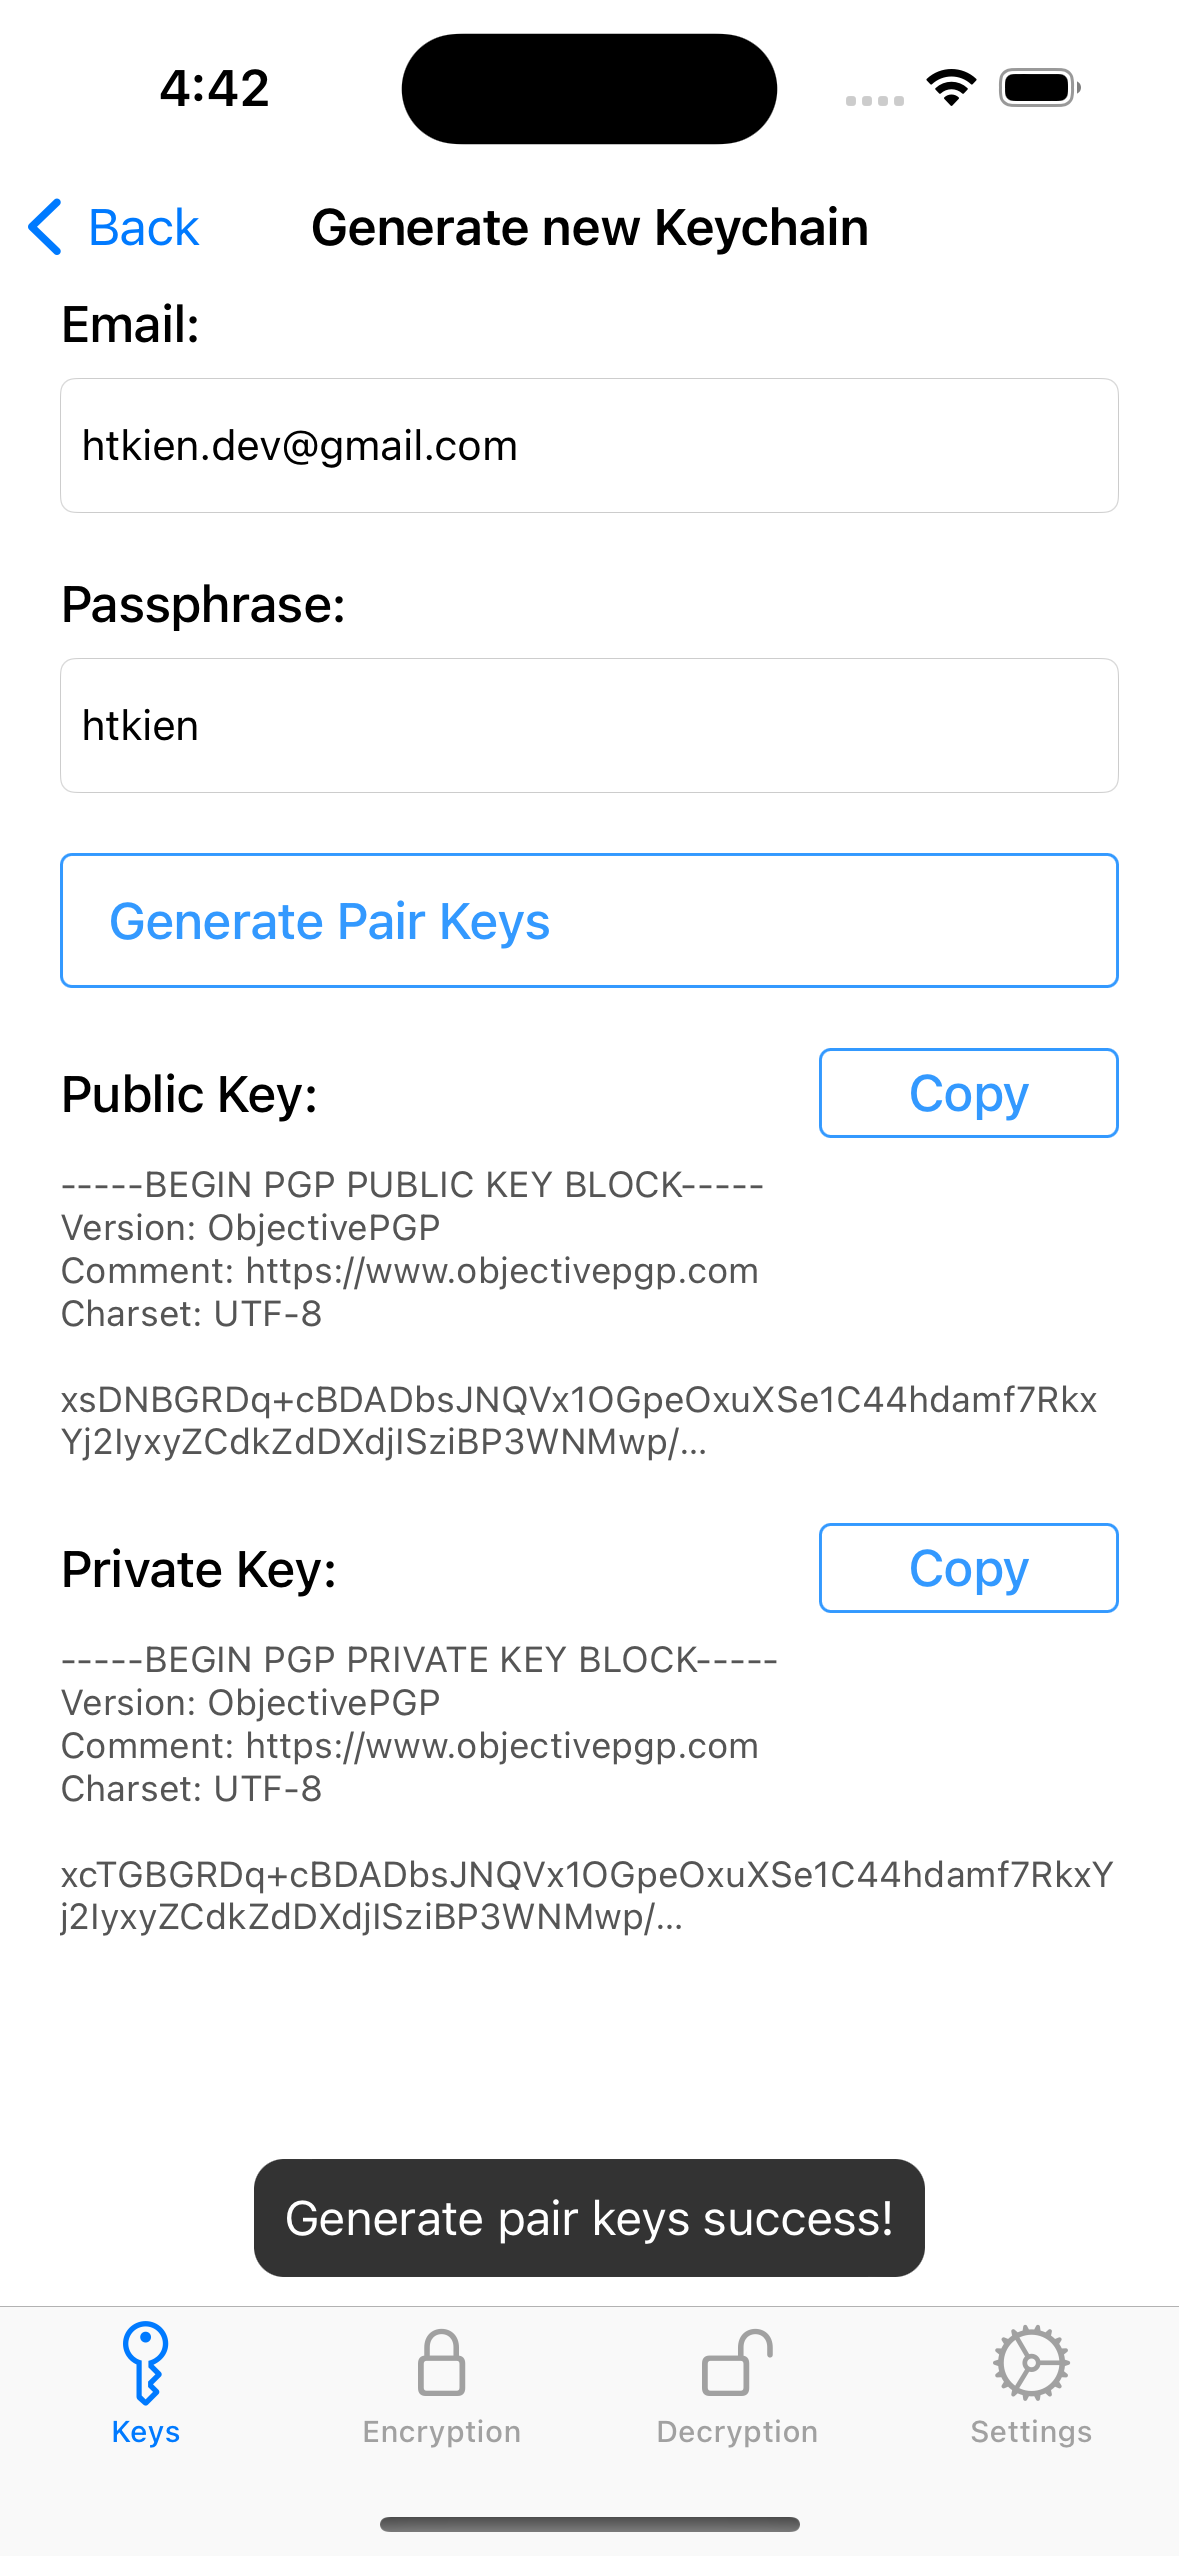
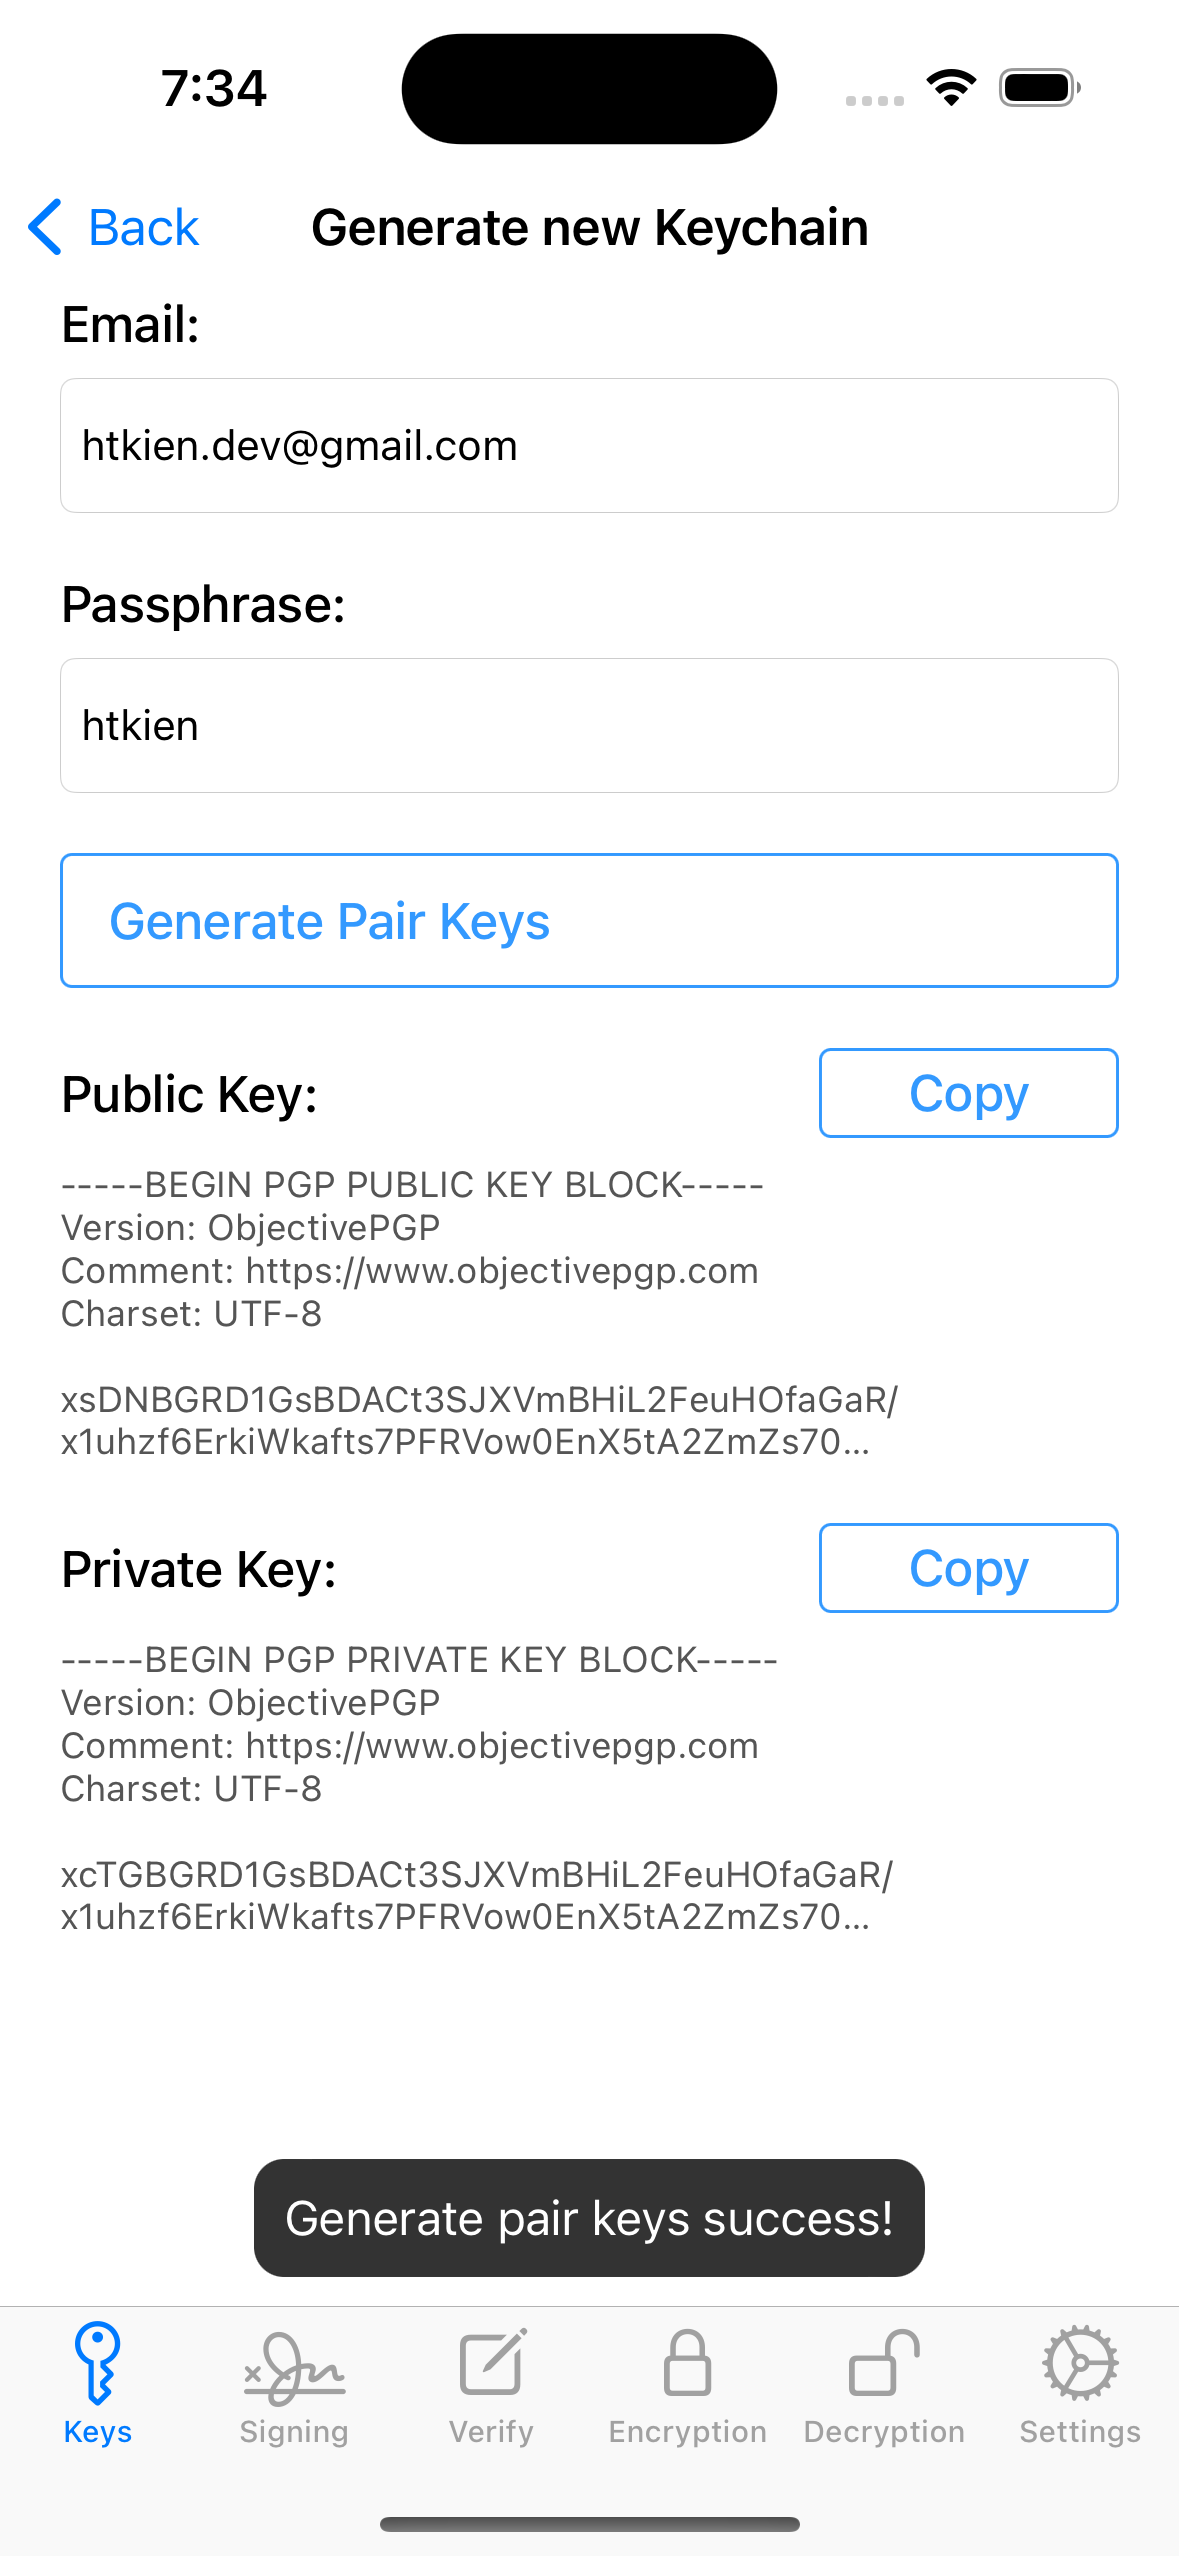
Update small things

diff --git a/PGP-example/Classes/Services/PGP/PGPService.swift b/PGP-example/Classes/Services/PGP/PGPService.swift
@@ -10,14 +10,6 @@ import ObjectivePGP
 
 typealias Keychain = Key
 
-enum KeychainType {
-    case publicKey
-    case privateKey
-    case both
-}
-
-protocol IPGPService {} // update later
-
 final class PGPService: IPGPService {
     
     func exportKeys(of type: KeychainType) -> [Keychain] {
@@ -37,6 +29,9 @@ final class PGPService: IPGPService {
         return key
     }
     
+    /**
+     Encrypt data using given keys.
+     */
     func encrypt(message: String,
                  receiverPublicKey: Keychain,
                  signerPrivateKey: Keychain?,
@@ -75,6 +70,9 @@ final class PGPService: IPGPService {
 //        return encryptedString
 //    }
     
+    /**
+     Decrypt PGP encrypted data.
+     */
     func decrypt(encryptedMessage: String,
                  receiverPrivateKey: Keychain,
                  signerPublicKey: Keychain?,
@@ -88,16 +86,7 @@ final class PGPService: IPGPService {
             inputKeys.append(signerPublicKey)
         }
         
-        guard let range = encryptedMessage.range(of: #"-----BEGIN PGP MESSAGE-----(.|\s)*-----END PGP MESSAGE-----"#,
-                                        options: .regularExpression) else {
-            throw PGPError(_nsError: NSError(domain: "Invalid encrypted message", code: -1))
-        }
-        
-        let message = String(encryptedMessage[range])
-        guard let messageData = message.data(using: .ascii) else {
-            throw PGPError(_nsError: NSError(domain: "Invalid encrypted message", code: -1))
-        }
-        
+        let messageData = try Armor.readArmored(encryptedMessage)
         let decrypted = try ObjectivePGP.decrypt(messageData,
                                                  andVerifySignature: andVerifySignature,
                                                  using: inputKeys,
@@ -131,7 +120,14 @@ final class PGPService: IPGPService {
 //        return decryptedMessage
 //    }
     
-    func sign(message: String, detached: Bool, key: Keychain, passphrase: String) throws -> String {
+    /**
+     Sign data using a given key. Use passphrase to unlock the key if needed.
+     If `detached` is true, output with the signature only. Otherwise, return signed data in PGP format.
+     */
+    func sign(message: String,
+              detached: Bool,
+              key: Keychain,
+              passphrase: String) throws -> String {
         guard let messageData = message.data(using: .utf8) else {
             throw PGPError(_nsError: NSError(domain: "Invalid raw input message", code: -1))
         }
@@ -144,11 +140,17 @@ final class PGPService: IPGPService {
         return signedString
     }
     
+    /**
+     Verify signed data using given keys.
+     */
     func verify(_ signedMessage: String, key: Keychain) throws {
         let messageData = try Armor.readArmored(signedMessage)
         try ObjectivePGP.verify(messageData, withSignature: nil, using: [key])
     }
     
+    /**
+     Verify if signature was signed with one of the given keys.
+     */
     func verifySignature(_ signature: String, key: Keychain) throws {
         let signatureData = try Armor.readArmored(signature)
         try ObjectivePGP.verifySignature(signatureData, using: [key])
@@ -159,13 +161,14 @@ final class PGPService: IPGPService {
         try keyring.export().write(to: fileUrl, options: .completeFileProtection)
     }
     
+    /**
+     Read binary or armored (ASCII) PGP keys from the input.
+     */
     func importKey(_ keyString: String) throws -> [Keychain] {
-        guard let asciiKeyData = keyString.data(using: .ascii) else {
-            throw PGPError(_nsError: NSError(domain: "Invalid raw input text", code: -1))
-        }
-
+        let asciiKeyData = try Armor.readArmored(keyString)
         var readKeys: [Keychain] = []
         readKeys = try ObjectivePGP.readKeys(from: asciiKeyData)
+        
         for key in readKeys {
             try keyIsSupported(key: key)
         }
@@ -174,6 +177,9 @@ final class PGPService: IPGPService {
         return readKeys
     }
     
+    /**
+     Read binary or armored (ASCII) PGP keys from the input.
+     */
     @discardableResult
     func importKey(_ fileUrl: URL) throws -> [Keychain] {
         var readKeys: [Keychain] = []
@@ -186,6 +192,9 @@ final class PGPService: IPGPService {
         return readKeys
     }
     
+    /**
+     Read binary or armored (ASCII) PGP keys from the input.
+     */
     @discardableResult
     func importKeys(fileUrls: [URL]) throws -> [Keychain] {
         var keys: [Keychain] = []

diff --git a/PGP-example/Classes/Services/PGP/IPGPService.swift b/PGP-example/Classes/Services/PGP/IPGPService.swift
@@ -1,0 +1,34 @@
+//
+//  IPGPService.swift
+//  PGP-example
+//
+//  Created by Bradley Hoang on 22/04/2023.
+//
+
+import Foundation
+
+protocol IPGPService {
+    func exportKeys(of type: KeychainType) -> [Keychain]
+    
+    func generateNewPairKeys(email: String, passphrase: String) -> Keychain
+    
+    func encrypt(message: String, receiverPublicKey: Keychain, signerPrivateKey: Keychain?, passphrase: String) throws -> String
+    
+    func decrypt(encryptedMessage: String, receiverPrivateKey: Keychain, signerPublicKey: Keychain?, passphrase: String) throws -> String
+    
+    func sign(message: String, detached: Bool, key: Keychain, passphrase: String) throws -> String
+    
+    func verify(_ signedMessage: String, key: Keychain) throws
+    
+    func verifySignature(_ signature: String, key: Keychain) throws
+    
+    func exportKeychain(with fileUrl: URL) throws
+    
+    func importKey(_ keyString: String) throws -> [Keychain]
+    
+    @discardableResult
+    func importKey(_ fileUrl: URL) throws -> [Keychain]
+    
+    @discardableResult
+    func importKeys(fileUrls: [URL]) throws -> [Keychain]
+}

diff --git a/PGP-example/Classes/Scenes/Decrypt/DecryptPresenter.swift b/PGP-example/Classes/Scenes/Decrypt/DecryptPresenter.swift
@@ -34,7 +34,7 @@ final class DecryptPresenter {
 extension DecryptPresenter: ViewToPresenterDecryptProtocol {
     func requestDecryptTheMessage(_ encryptedMessage: String, passphrase: String) {
         guard let receiverPrivateKey = receiverPrivateKey else {
-            view?.showError("Need receiver's public key!")
+            view?.showError("Need receiver's private key!")
             return
         }
         

diff --git a/PGP-example/Classes/Scenes/Decrypt/DecryptViewController.swift b/PGP-example/Classes/Scenes/Decrypt/DecryptViewController.swift
@@ -61,6 +61,7 @@ private extension DecryptViewController {
 extension DecryptViewController: PresenterToViewDecryptProtocol {
     func showDecryptedMessage(_ decryptedMessage: String) {
         decryptedMessageLabel.text = decryptedMessage
+        makeToast("Decrypt the message success!")
     }
     
     func showReceiverPrivateKey(fingerprint: String, typeString: String) {

diff --git a/PGP-example/Classes/Services/PGP/Model/KeychainType.swift b/PGP-example/Classes/Services/PGP/Model/KeychainType.swift
@@ -1,0 +1,14 @@
+//
+//  KeychainType.swift
+//  PGP-example
+//
+//  Created by Bradley Hoang on 22/04/2023.
+//
+
+import Foundation
+
+enum KeychainType {
+    case publicKey
+    case privateKey
+    case both
+}

diff --git a/README.md b/README.md
@@ -4,16 +4,27 @@
 This is an example project demonstrating how to use PGP encryption and decryption in an iOS app. It uses the Objective-C implementation of the OpenPGP standard, OpenPGP.framework.
 
 ## Features :heart:
-- Architecture: MVP
-- Dependency Injection
+- Manage Keychain:
+  - Generate new keys: public and private keys
+  - Import key from local file url
+  - Import key from clipboard
+- Signing the message with private key, output with the signature
+- Verify if signature was signed with one of the given keys.
+- Encrypt data
+- Decrypt PGP encrypted data
+- Others:
+  - Export keys to local files (*.gpg)
 
 ## Application
-| List Keys | Generate New Key  | Signing  |
+| List Keys | Generate New Key  | Key Detail  |
 | ------------ | ------------ | ------------ |
 | <img src="images/app-1.png" height="480"> | <img src="images/app-2.png" height="480"> | <img src="images/app-3.png" height="480"> |
-| Encrypt | Decrypt  | Settings  |
+| Signing | Verify Signing  |
+| ------------ | ------------ |
+| <img src="images/app-4.png" height="480"> | <img src="images/app-5.png" height="480"> |
+| Encryption | Decryption  | Settings  |
 | ------------ | ------------ | ------------ |
-| <img src="images/app-4.png" height="480"> | <img src="images/app-5.png" height="480"> | <img src="images/app-6.png" height="480"> |
+| <img src="images/app-6.png" height="480"> | <img src="images/app-7.png" height="480"> | <img src="images/app-8.png" height="480"> |
     
 ## Requirements
 
